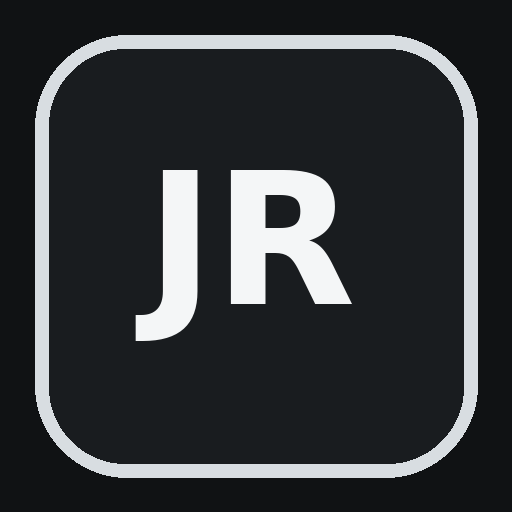
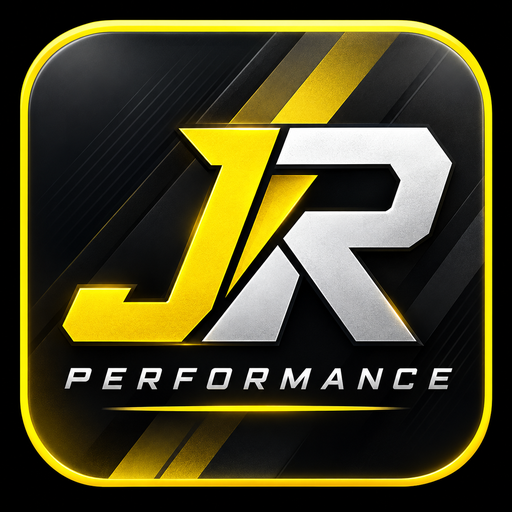
Add files via upload

diff --git a/index.html b/index.html
@@ -1,1 +1,1 @@
-<!doctype html><html lang="en"><head><meta charset="utf-8"><meta name="viewport" content="width=device-width,initial-scale=1,viewport-fit=cover"><meta name="theme-color" content="#08090b"><meta name="apple-mobile-web-app-capable" content="yes"><meta name="apple-mobile-web-app-title" content="JR Performance"><meta name="description" content="JR's baseball strength and athletic performance tracker"><link rel="manifest" href="manifest.webmanifest"><link rel="apple-touch-icon" href="icon-192.png"><link rel="stylesheet" href="style.css?v=833"><title>JR Performance</title></head><body><header><div class="brand"><button type="button" id="headerAvatar" class="header-avatar" aria-label="Open athlete profile" onclick="nav('profile')">JR</button><div><div class="eyebrow" id="headerAthleteName">JR ATHLETIC DEVELOPMENT</div><div class="brand-title">PERFORMANCE</div></div></div><div class="header-right"><div id="headerDate" class="header-date"></div><button id="headerSettings" class="header-settings" type="button" aria-label="Open settings" title="Settings" onclick="tab==='settings'?closeSettings():openSettings()"><svg viewBox="0 0 24 24" fill="none" stroke="currentColor" stroke-width="1.8" stroke-linecap="round" stroke-linejoin="round" aria-hidden="true"><path d="M10.4 2.6h3.2l.6 2.1a8 8 0 0 1 1.8.8l2-.9 2.3 2.3-.9 2a8 8 0 0 1 .8 1.8l2.1.6v3.2l-2.1.6a8 8 0 0 1-.8 1.8l.9 2-2.3 2.3-2-.9a8 8 0 0 1-1.8.8l-.6 2.1h-3.2l-.6-2.1a8 8 0 0 1-1.8-.8l-2 .9-2.3-2.3.9-2a8 8 0 0 1-.8-1.8l-2.1-.6v-3.2l2.1-.6a8 8 0 0 1 .8-1.8l-.9-2 2.3-2.3 2 .9a8 8 0 0 1 1.8-.8z"/><circle cx="12" cy="12" r="3.1"/></svg></button></div></header><main id="app" class="container" aria-live="polite"></main><nav id="bottomNav" aria-label="Main navigation"></nav><div id="timerDock" class="timer-dock hidden"></div><div id="toast" class="toast hidden" role="status"></div><script src="program.js"></script><script src="movement_catalog.js?v=833"></script><script src="app.js?v=833"></script></body></html>
+<!doctype html><html lang="en"><head><meta charset="utf-8"><meta name="viewport" content="width=device-width,initial-scale=1,viewport-fit=cover"><meta name="theme-color" content="#08090b"><meta name="apple-mobile-web-app-capable" content="yes"><meta name="apple-mobile-web-app-title" content="JR Performance"><meta name="description" content="JR's baseball strength and athletic performance tracker"><link rel="manifest" href="manifest.webmanifest?v=835"><link rel="apple-touch-icon" href="icon-180.png?v=835"><link rel="stylesheet" href="style.css?v=833"><title>JR Performance</title></head><body><header><div class="brand"><button type="button" id="headerAvatar" class="header-avatar" aria-label="Open athlete profile" onclick="nav('profile')">JR</button><div><div class="eyebrow" id="headerAthleteName">JR ATHLETIC DEVELOPMENT</div><div class="brand-title">PERFORMANCE</div></div></div><div class="header-right"><div id="headerDate" class="header-date"></div><button id="headerSettings" class="header-settings" type="button" aria-label="Open settings" title="Settings" onclick="tab==='settings'?closeSettings():openSettings()"><svg viewBox="0 0 24 24" fill="none" stroke="currentColor" stroke-width="1.8" stroke-linecap="round" stroke-linejoin="round" aria-hidden="true"><path d="M10.4 2.6h3.2l.6 2.1a8 8 0 0 1 1.8.8l2-.9 2.3 2.3-.9 2a8 8 0 0 1 .8 1.8l2.1.6v3.2l-2.1.6a8 8 0 0 1-.8 1.8l.9 2-2.3 2.3-2-.9a8 8 0 0 1-1.8.8l-.6 2.1h-3.2l-.6-2.1a8 8 0 0 1-1.8-.8l-2 .9-2.3-2.3.9-2a8 8 0 0 1-.8-1.8l-2.1-.6v-3.2l2.1-.6a8 8 0 0 1 .8-1.8l-.9-2 2.3-2.3 2 .9a8 8 0 0 1 1.8-.8z"/><circle cx="12" cy="12" r="3.1"/></svg></button></div></header><main id="app" class="container" aria-live="polite"></main><nav id="bottomNav" aria-label="Main navigation"></nav><div id="timerDock" class="timer-dock hidden"></div><div id="toast" class="toast hidden" role="status"></div><script src="program.js"></script><script src="movement_catalog.js?v=833"></script><script src="app.js?v=833"></script></body></html>

diff --git a/sw.js b/sw.js
@@ -1,5 +1,5 @@
-const CACHE='jr-performance-v8-34-home-athletic-contrast';
-const ASSETS=['./','./index.html','./style.css','./program.js','./movement_catalog.js','./app.js','./manifest.webmanifest','./icon-192.png','./icon-512.png'];
+const CACHE='jr-performance-v8-35-new-app-icon';
+const ASSETS=['./','./index.html','./style.css','./program.js','./movement_catalog.js','./app.js','./manifest.webmanifest','./icon-180.png','./icon-192.png','./icon-512.png'];
 self.addEventListener('install',event=>{event.waitUntil(caches.open(CACHE).then(cache=>cache.addAll(ASSETS)));self.skipWaiting()});
 self.addEventListener('activate',event=>{event.waitUntil(caches.keys().then(keys=>Promise.all(keys.filter(key=>key!==CACHE).map(key=>caches.delete(key)))));self.clients.claim()});
 self.addEventListener('fetch',event=>{let request=event.request;if(request.method!=='GET'||new URL(request.url).origin!==self.location.origin)return;event.respondWith(fetch(request).then(response=>{if(response.ok){let clone=response.clone();caches.open(CACHE).then(c=>c.put(request,clone))}return response}).catch(()=>caches.match(request).then(x=>x||caches.match('./index.html'))))});

diff --git a/README.md b/README.md
@@ -1,5 +1,5 @@
-JR Performance v8.34 — Home Athletic Performance Contrast Update
+JR Performance v8.35 — New Home Screen Icon
 
-Updated Home athletic preview with a white high-contrast panel, dark metric values, and readable labels. No sample values inserted; all metrics continue to use saved athletic test results.
+New JR monogram icon in 180px (Apple touch icon), 192px and 512px (PWA). Updated index.html, sw.js for icon caching. No workout code or stored data changed.
 
-Install: replace website files in GitHub Pages. This complete site includes the videos folder. Existing local workout and athletic data are not reset.
+Upload index.html, sw.js, icon-180.png, icon-192.png, icon-512.png to GitHub repository root. On iPhone remove old Home Screen shortcut, open site in Safari and Add to Home Screen again if old icon remains.
